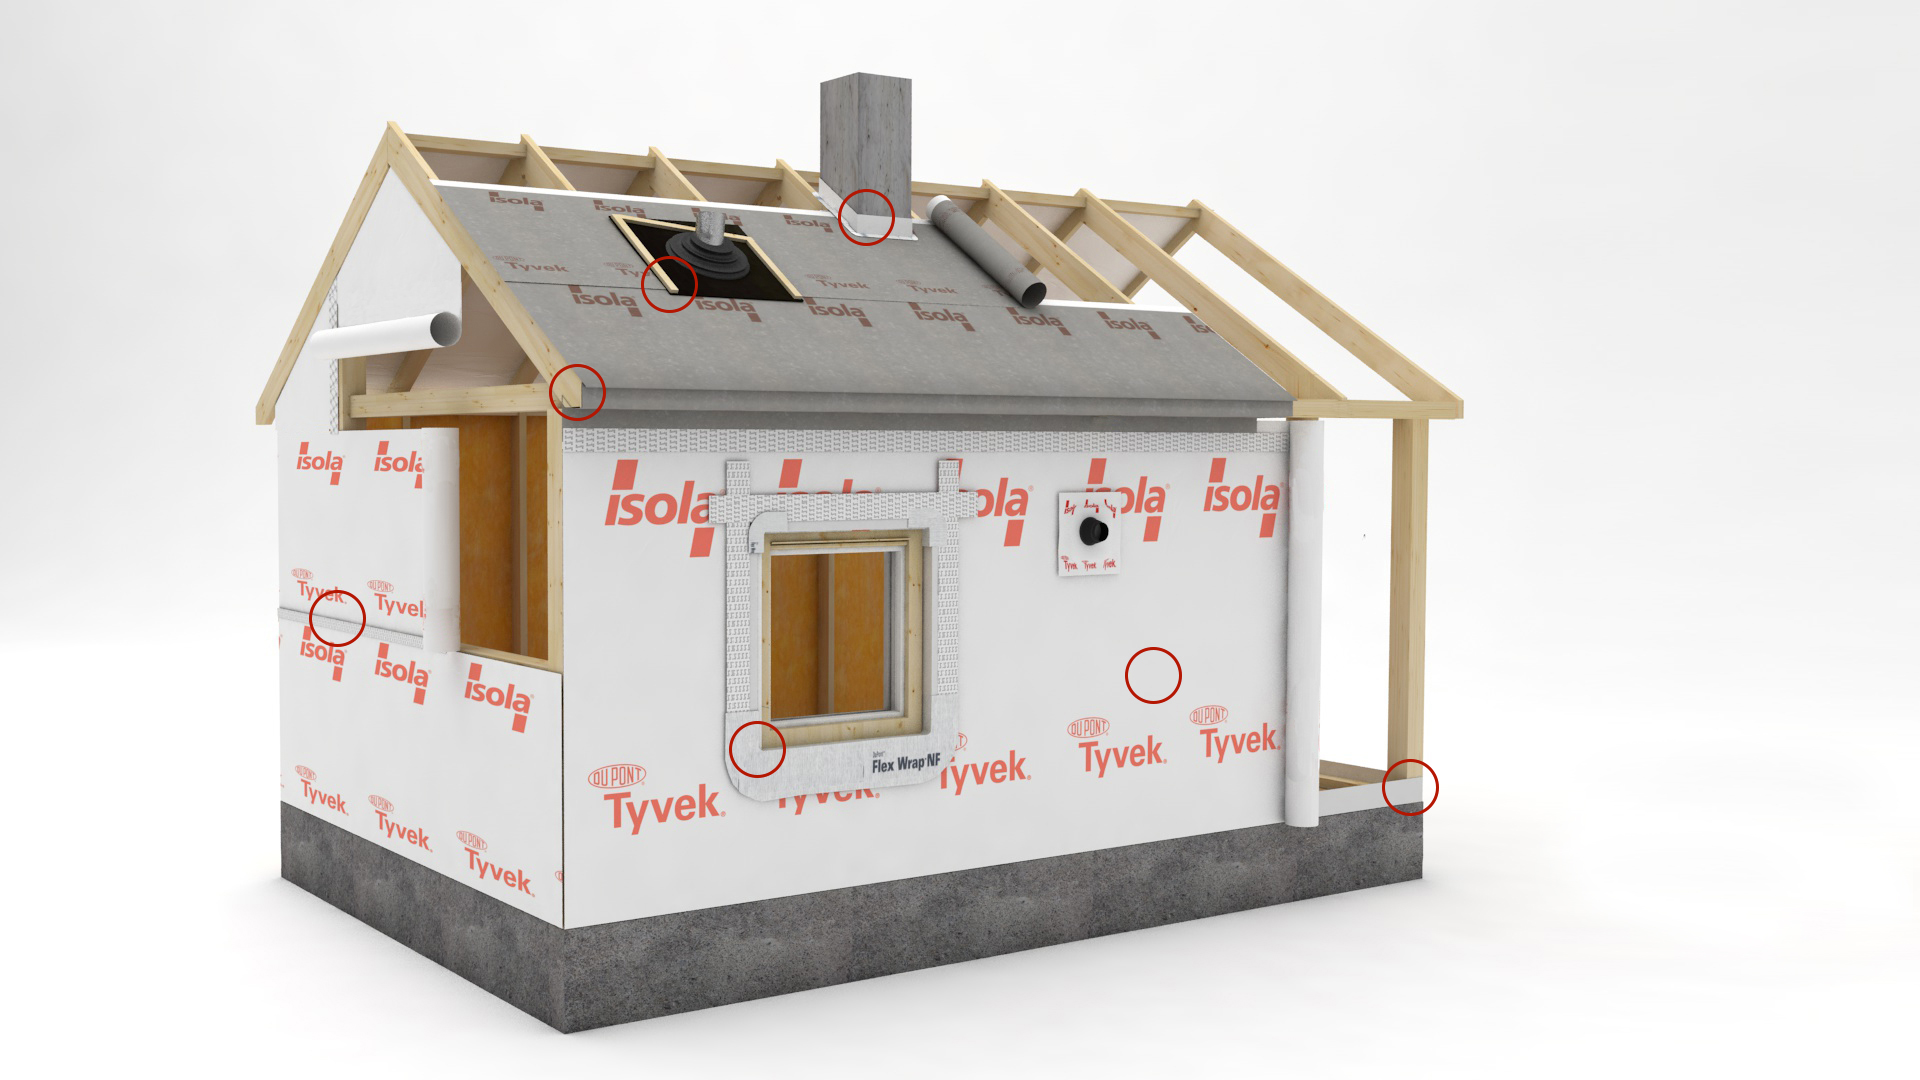
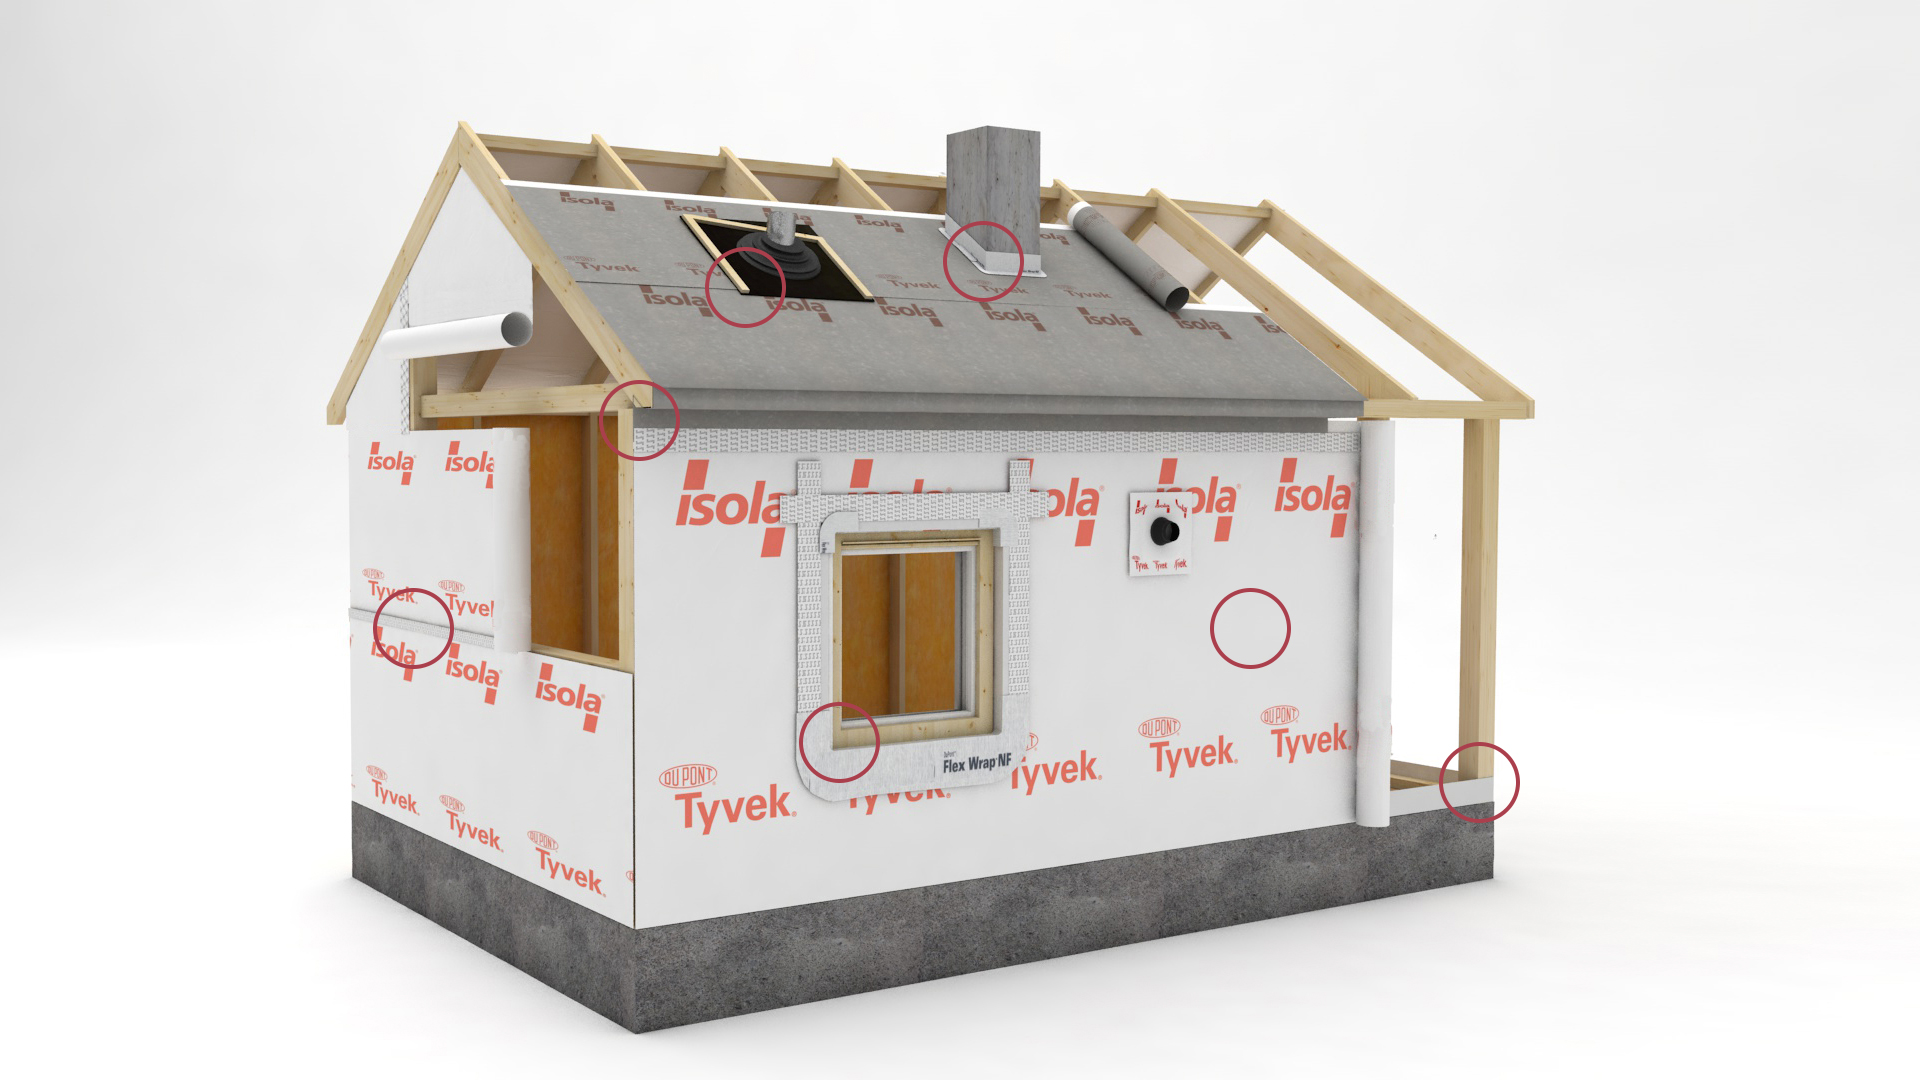
Diverse korrekturer

Changed region(s): [[0.125, 0.0611, 0.8125, 0.9778]]

diff --git a/presentation/gronnetak.jsx b/presentation/gronnetak.jsx
@@ -13,10 +13,12 @@ const images = {
     gronnetak1: require("./gronnetak/gronnetak_2_1.jpg"),
     gronnetak2: require("./gronnetak/gronnetak_2_2.jpg"),
     gronnetak3: require("./gronnetak/gronnetak_2_3.jpg"),
-    gronnetak4: require("./gronnetak/gronnetak_2_4.jpg")
+    gronnetak4: require("./gronnetak/gronnetak_2_4.jpg"),
+    gronnetak5: require("./gronnetak/gronnetak_2_5.jpg"),
+    gronnetak6: require("./gronnetak/gronnetak_2_6.jpg")
 };
 
-preloader([images.gronnetak1, images.gronnetak2, images.gronnetak3, images.gronnetak4]);
+preloader([images.gronnetak1, images.gronnetak2, images.gronnetak3, images.gronnetak4, images.gronnetak5, images.gronnetak6]);
 
 
 class Gallery extends React.Component {
@@ -28,10 +30,12 @@ class Gallery extends React.Component {
                 <Link className="deckLink" href="/"> </Link>
 
                 <Deck transition={[ "fade"]} title="Isola Grønne tak" progress="gallery" base="/gronnetak/" transitionDuration={800}>
-                    <Slide  bgImage={images.gronnetak1} tab="1"></Slide>
-                    <Slide  bgImage={images.gronnetak2} tab="2"></Slide>
-                    <Slide  bgImage={images.gronnetak3} tab="3"></Slide>
-                    <Slide  bgImage={images.gronnetak4} tab="4"></Slide>
+                    <Slide  bgImage={images.gronnetak5} tab="1"></Slide>
+                    <Slide  bgImage={images.gronnetak6} tab="2"></Slide>
+                    <Slide  bgImage={images.gronnetak1} tab="3"></Slide>
+                    <Slide  bgImage={images.gronnetak2} tab="4"></Slide>
+                    <Slide  bgImage={images.gronnetak3} tab="5"></Slide>
+                    <Slide  bgImage={images.gronnetak4} tab="6"></Slide>
                 </Deck>
             </div>
         );

diff --git a/presentation/systemhus.jsx b/presentation/systemhus.jsx
@@ -14,13 +14,13 @@ const images = {
 };
 
 const links = [
-    {x:1410, y:790, link:"/systemgodkjenning/svillemembran"},
-    {x:860, y:220, link:"/systemgodkjenning/flexwrap"},
-    {x:670, y:280, link:"/systemgodkjenning/takmansjett"},
-    {x:575, y:390, link:"/systemgodkjenning/rims"},
-    {x:1153, y:680, link:"/vindsperrer/0"},
-    {x:334, y:622, link:"/systemgodkjenning/tape"},
-    {x:755, y:744, link:"/systemgodkjenning/vindu"}
+    {x:1476, y:780, link:"/systemgodkjenning/svillemembran"},
+    {x:980, y:260, link:"/systemgodkjenning/flexwrap"},
+    {x:740, y:280, link:"/systemgodkjenning/takmansjett"},
+    {x:640, y:420, link:"/systemgodkjenning/rims"},
+    {x:1250, y:620, link:"/vindsperrer/0"},
+    {x:410, y:630, link:"/systemgodkjenning/tape"},
+    {x:840, y:740, link:"/systemgodkjenning/vindu"}
 ]; 
 
 preloader([images.oversikt]);

diff --git a/presentation/menu.jsx b/presentation/menu.jsx
@@ -15,7 +15,7 @@ const images = {
 
 const links = [
     {x:270, y:160, link:"/images/isod"},
-    {x:270, y:490, link:"/images/kilrenne"},
+    {x:270, y:490, link:"/kilrenne/0"},
     {x:270, y:840, link:"/images/tape"},
 
     {x:710, y:160, link:"/images/shingel"},
